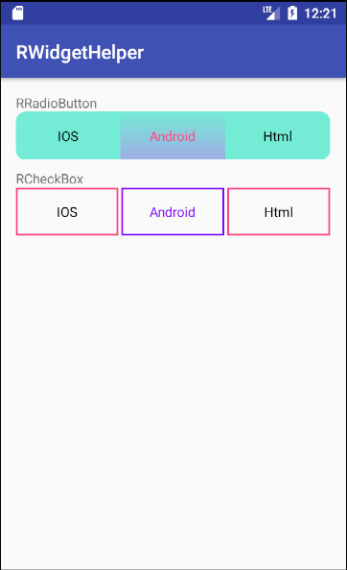
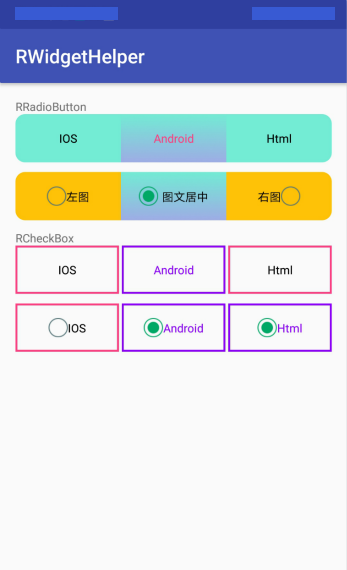
Update README.md

Changed region(s): [[0.0, 0.0, 1.0, 1.0]]

diff --git a/README.md b/README.md
@@ -168,7 +168,11 @@
 
 > 查看基础功能
 >
+> 查看 `RTextView` 所有功能
+>
 > 常使用选择属性 checked 
+> 
+> 支持 `RTextView` 的基础功能 自定义各个状态 `drawableLeft` 以及 icon与文本居中等
 
 | 属性			|说明			 |
 | ------------- |  :-------------|
@@ -210,10 +214,12 @@
 ### 使用
 > ###  Gradle （版本号根据更新历史使用最新版）
 
-    compile 'com.ruffian.library:RWidgetHelper:1.0.10'
+    compile 'com.ruffian.library:RWidgetHelper:1.1.0'
 
 
 ### 版本历史
+
+**v1.1.0**　`2019.06.27`　 `RCheckBox` 和 `RRadioButton` 支持选中图片，支持继承 `RTextView` 的基础功能
 
 **v1.0.10**　`2019.06.26`　Fix bug [issues#33](https://github.com/RuffianZhong/RWidgetHelper/issues/33)
 
